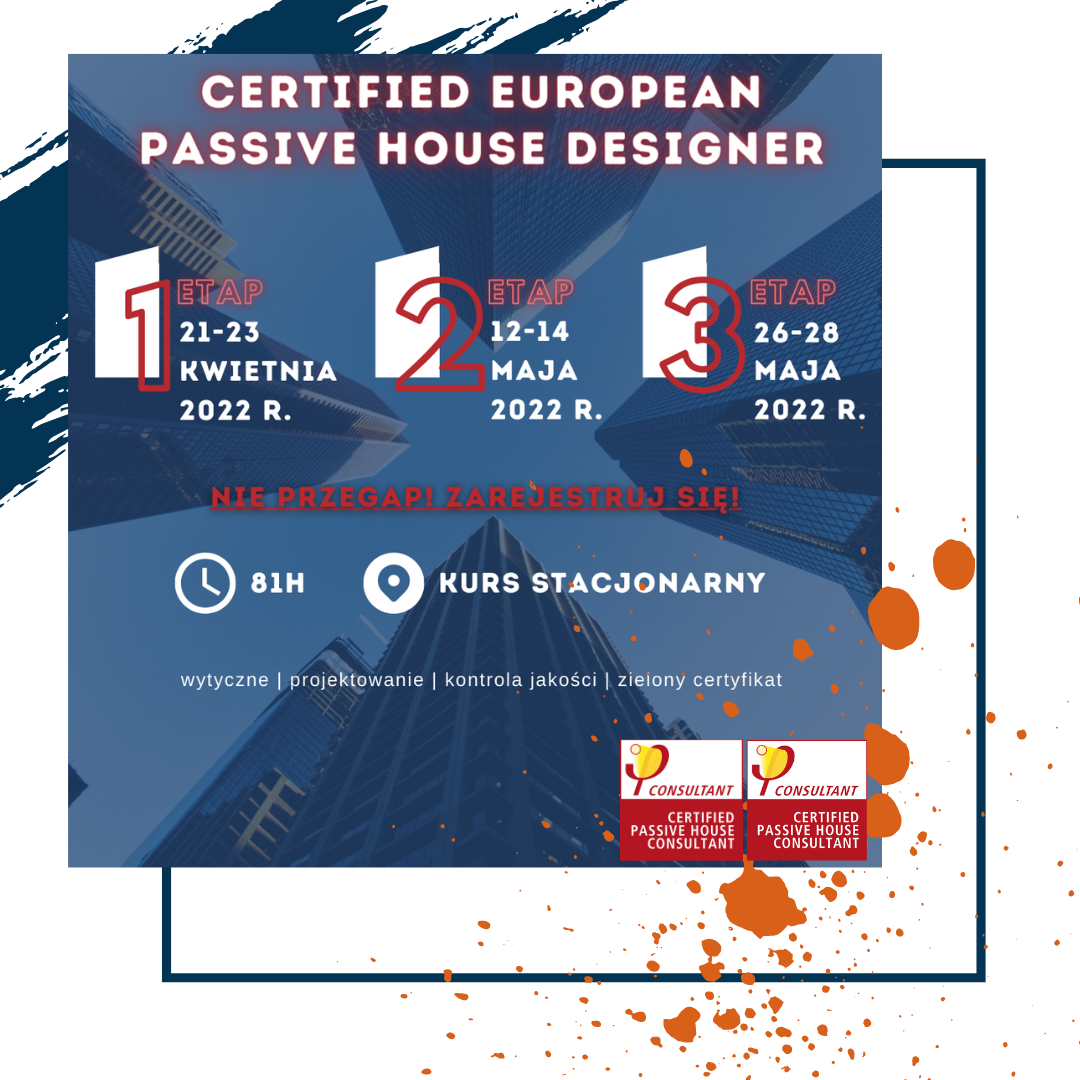
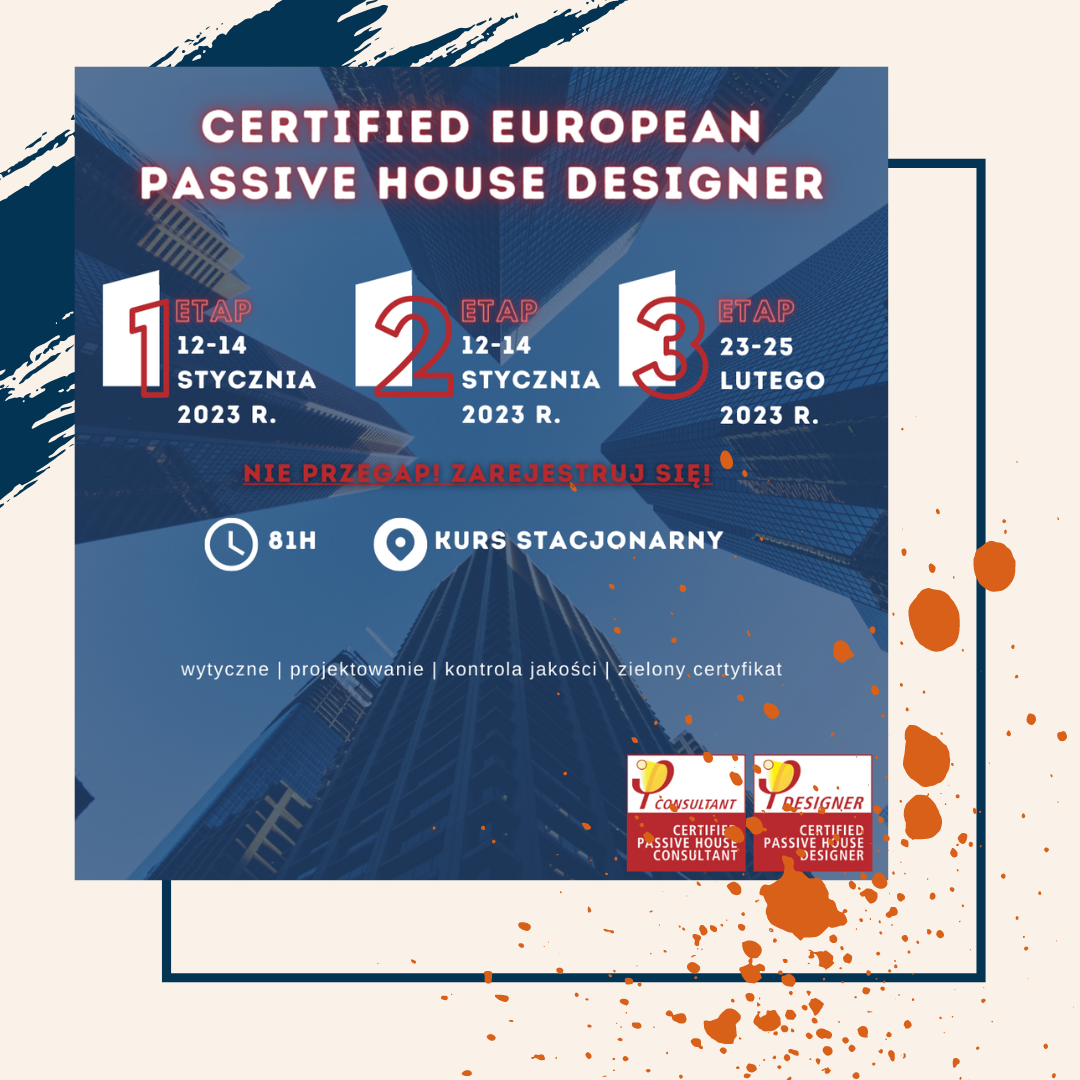
feat(cephd): update course dates

Changed region(s): [[0.0611, 0.0306, 0.9472, 1.0], [0.9778, 0.6722, 1.0, 0.7028], [0.825, 0.9778, 0.8556, 1.0]]

diff --git a/src/news/news-cephd.md b/src/news/news-cephd.md
@@ -1,5 +1,5 @@
 ---
-title: Nabór do zimowej edycji kursu
+title: Nabór do zimowej edycji kursu 2023
 date: 2022-11-11
 slug: second-news
 type: news
